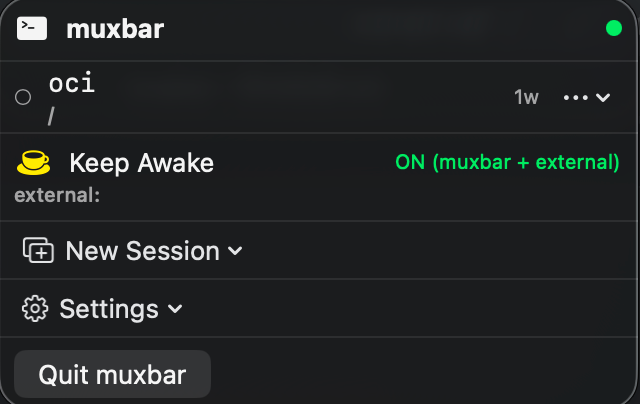
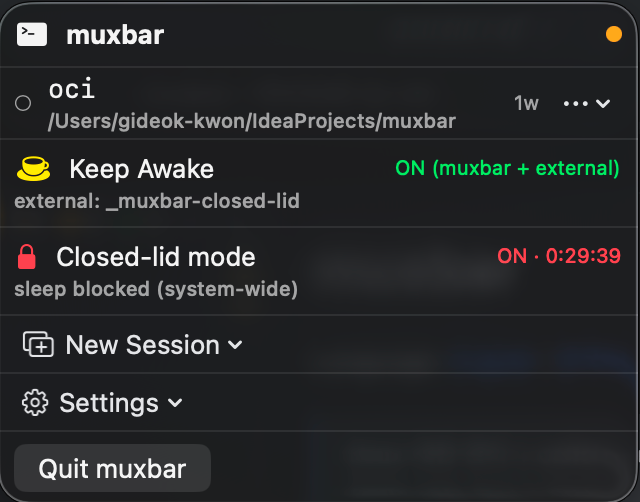
chore(release): v0.2.0 준비 — Distribution + screenshot
- Distribution/Release.sh 의 .app Info.plist 에 NSSupports{Automatic,Sudden}
  Termination=false 추가 (release 빌드도 closed-lid mode 자동 종료 opt-out 유지).
- Homebrew cask version 0.2.0, desc 갱신 (closed-lid mode 반영).
- README screenshot menu.png 갱신 (closed-lid 메뉴 항목 노출 캡처).

diff --git a/Distribution/HomebrewTap/muxbar.rb b/Distribution/HomebrewTap/muxbar.rb
@@ -1,10 +1,10 @@
 cask "muxbar" do
-  version "0.1.0"
+  version "0.2.0"
   sha256 "TBD_AFTER_BUILD"
 
   url "https://github.com/1989v/muxbar/releases/download/v#{version}/muxbar-#{version}.dmg"
   name "muxbar"
-  desc "tmux session manager with caffeinate toggle in the menu bar"
+  desc "tmux session manager + closed-lid mode in the menu bar"
   homepage "https://github.com/1989v/muxbar"
 
   depends_on formula: "tmux"